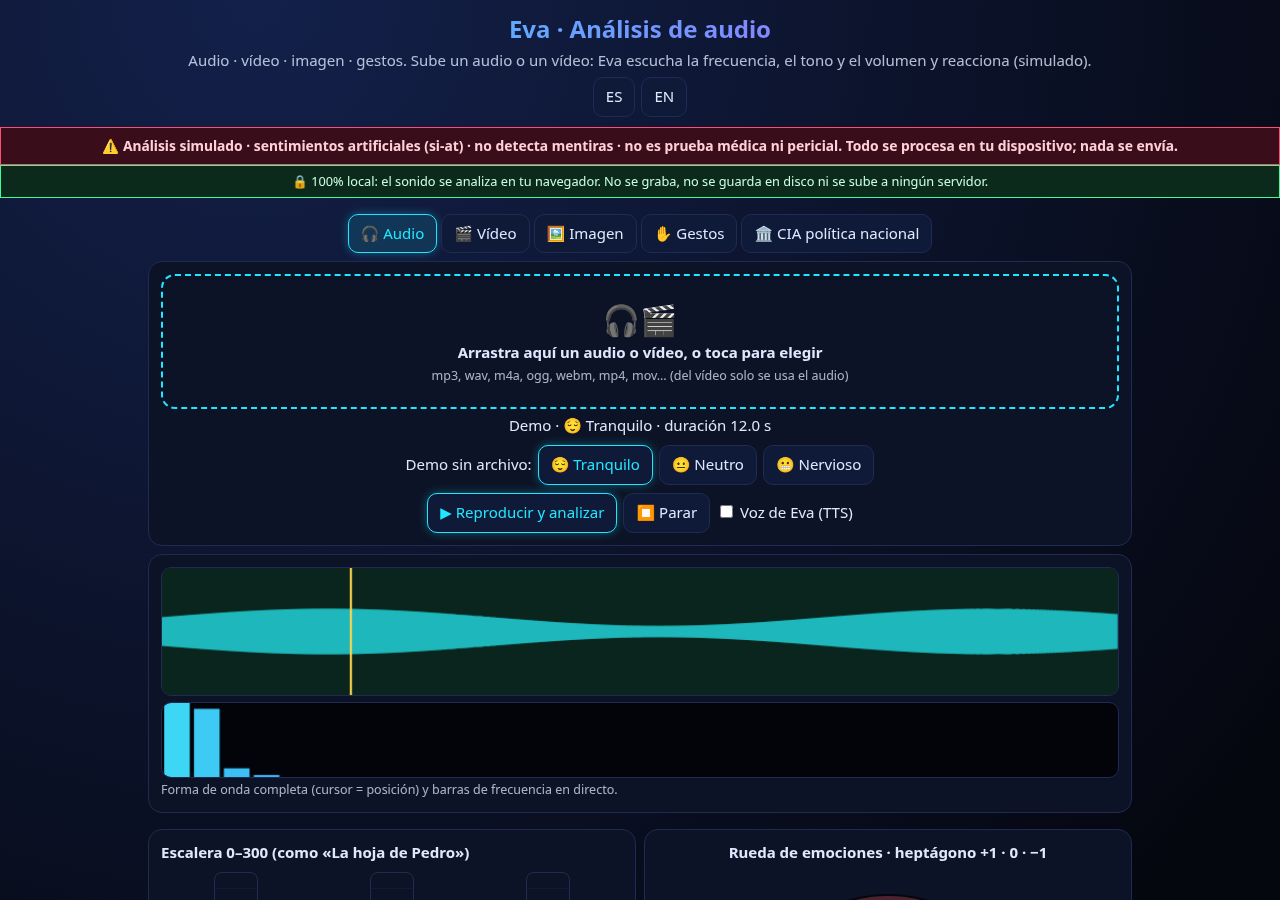
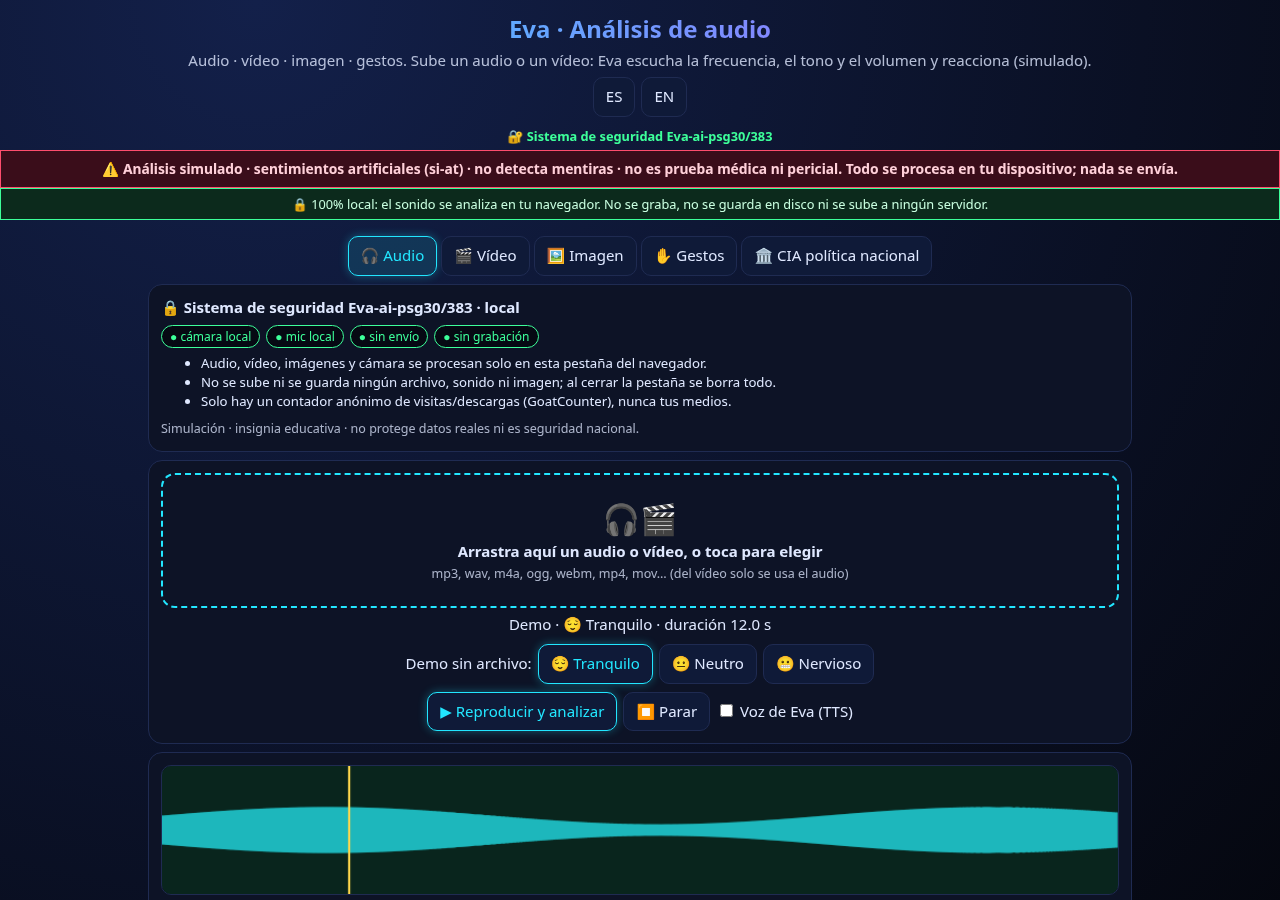
Eva: sistema de seguridad Eva-ai-psg30/383 (panel local, código demo para CIA política nacional, simulación)

diff --git a/eva/index.html b/eva/index.html
@@ -33,17 +33,20 @@ footer{text-align:center;padding:16px;opacity:.85;font-size:.85em}a{color:var(--
 .aud{} .ges{display:none}
 </style></head><body>
 <header><h1 data-i="title"></h1><div data-i="sub" style="opacity:.8"></div><div class="row" style="margin-top:6px"><a class="btn" href="?lang=es">ES</a><a class="btn" href="?lang=en">EN</a></div></header>
-<div class="banner" data-i="disc"></div>
+<div style="text-align:center;font-size:.85em;color:#3dff9a;margin-bottom:4px">🔐 <b data-i="secId"></b></div><div class="banner" data-i="disc"></div>
 <div class="priv" data-i="priv"></div>
 <main>
 <div class="tabs"><button class="btn tab on" data-m="audio" data-i="tA"></button><button class="btn tab" data-m="video" data-i="tV"></button><button class="btn tab" data-m="imagen" data-i="tI"></button><button class="btn tab" data-m="gestos" data-i="tG"></button><button class="btn tab" data-m="cia" data-i="tC"></button></div>
 <div class="card cia" id="cCard" style="display:none"><div class="banner" style="background:#3a2400;border-color:#ffb020;color:#ffe2a8;border-radius:10px;font-size:1em" data-i="cban"></div>
-<p data-i="cTxt" style="text-align:center"></p><div class="row"><button class="btn on" id="cStart" data-i="cStart"></button><button class="btn" id="cStop" data-i="cStop" disabled></button></div><div id="cSt" style="text-align:center;margin-top:6px"></div></div>
+<p data-i="cTxt" style="text-align:center"></p><div id="gate" class="row" style="margin-bottom:8px"><label>🔐 <span data-i="gateL"></span> <input id="pin" placeholder="Eva-ai-psg30/383" style="background:#05070f;color:#dfe8ff;border:1px solid #ffb020;border-radius:8px;padding:6px"></label><button class="btn" id="unl" data-i="unl"></button><small data-i="gateN" style="width:100%;text-align:center"></small></div><div class="row"><button class="btn on" id="cStart" data-i="cStart" disabled></button><button class="btn" id="cStop" data-i="cStop" disabled></button></div><div id="cSt" style="text-align:center;margin-top:6px"></div></div>
 <div class="card ges" id="gCard"><div class="banner" data-i="gban" style="border-radius:10px;margin-bottom:8px"></div>
 <div class="row" style="margin-bottom:8px"><button class="btn on" id="gOpen" data-i="gOpen"></button><button class="btn" id="gStop" data-i="stop" disabled></button><button class="btn" id="gPick" data-i="gPick"></button><input type="file" id="gFile" accept="image/*" hidden><label><input type="checkbox" id="gHands" checked> <span data-i="gHandsL"></span></label></div>
 <div id="gv"><video id="gvid" class="mir" playsinline muted></video><img id="gimg" alt="" hidden><canvas id="gov" style="border:0;background:transparent"></canvas><div id="gtags"></div><div id="gph" data-i="gph"></div></div>
 <div id="gst" style="text-align:center;margin-top:6px"></div>
 <div class="row" style="margin-top:8px"><span data-i="gDemo"></span><span id="gDemoB" class="row"></span></div><small data-i="gNote"></small></div>
+<div class="card" id="sec"><b>🔒 <span data-i="secT"></span></b><div class="row" style="justify-content:flex-start;margin-top:6px">
+<span class="tag" style="border-color:#3dff9a;color:#3dff9a">● <span data-i="s1"></span></span><span class="tag" style="border-color:#3dff9a;color:#3dff9a">● <span data-i="s2"></span></span><span class="tag" style="border-color:#3dff9a;color:#3dff9a">● <span data-i="s3"></span></span><span class="tag" style="border-color:#3dff9a;color:#3dff9a">● <span data-i="s4"></span></span></div>
+<ul style="margin:6px 0;font-size:.88em"><li data-i="c1"></li><li data-i="c2"></li><li data-i="c3"></li></ul><small data-i="secN"></small></div>
 <div class="card aud" id="aCard"><div id="drop" tabindex="0"><div style="font-size:2em">🎧🎬</div><b data-i="drop"></b><br><small data-i="fmt"></small><input type="file" id="file" accept="audio/*,video/*,.mp3,.wav,.m4a,.ogg,.webm,.mp4,.mov,.aac,.flac" hidden></div>
 <div id="info" style="text-align:center;margin-top:6px"></div><div id="err" style="text-align:center"></div>
 <div class="row" style="margin-top:8px"><span data-i="demo"></span><button class="btn demo" data-k="calm" data-i="dCalm"></button><button class="btn demo" data-k="neu" data-i="dNeu"></button><button class="btn demo" data-k="nerv" data-i="dNerv"></button></div>
@@ -63,7 +66,7 @@ footer{text-align:center;padding:16px;opacity:.85;font-size:.85em}a{color:var(--
 <div class="card" style="text-align:center"><a class="btn on" id="dl" href="index.html" download="eva-analisis-audio.html" data-i="dlB"></a></div>
 <div class="card"><b data-i="more"></b> <a href="../may-gestos/">MAY · Lenguaje gestual</a> · <a href="../may-produccion/">MAY Producción</a> · <a href="../binary-money/">Binary Money</a> · <a href="../">OSNews</a></div>
 </main>
-<footer data-i="foot"></footer>
+<footer><div data-i="foot"></div><div style="color:#3dff9a;margin-top:4px">🔐 <span data-i="secId"></span></div></footer>
 <script>
 const L=new URLSearchParams(location.search).get('lang')=='en'?'en':'es';document.documentElement.lang=L;
 var T={es:{title:'Eva · Análisis de audio',sub:'Audio · vídeo · imagen · gestos. Sube un audio o un vídeo: Eva escucha la frecuencia, el tono y el volumen y reacciona (simulado).',
@@ -192,7 +195,7 @@ Object.assign(T,L=='en'?{tC:'🏛 CIA política nacional',cban:'⚠ Educat
 :{tC:'🏛 CIA política nacional',cban:'⚠ Simulación educativa · no es una agencia real · no vigila a nadie · no graba ni envía · sentimientos artificiales (si-at)',cTxt:'Juego «mesa de análisis político»: reproduce un discurso público cerca del micrófono y Eva comenta el TONO de la señal de entrada en tiempo real (simulado). Ficción para alfabetización mediática.',cStart:'🎙 Iniciar señal',cStop:'⏹ Parar señal',cOn:'Señal en directo activa (solo en tu dispositivo). No se graba nada.',cDen:'No se pudo abrir el micrófono.',cPer:'Eva percibe en la señal'});
 ['tC','cban','cTxt','cStart','cStop'].forEach(k=>document.querySelectorAll(`[data-i="${k}"]`).forEach(e=>e.textContent=T[k]));
 let cS=null,cA=null,cR=0,cHist=[];
-function cStop(){cancelAnimationFrame(cR);cS&&cS.getTracks().forEach(t=>t.stop());cS=null;$('cStop').disabled=true;$('cStart').disabled=false}
+function cStop(){cancelAnimationFrame(cR);cS&&cS.getTracks().forEach(t=>t.stop());cS=null;$('cStop').disabled=true;$('cStart').disabled=$('gate').style.display!='none'}
 async function cStartFn(stream){try{cS=stream||await navigator.mediaDevices.getUserMedia({audio:{echoCancellation:false,noiseSuppression:false},video:false})}catch(e){$('cSt').textContent=T.cDen;return}
 ac=ac||new (window.AudioContext||window.webkitAudioContext)();await ac.resume();const sn=ac.createMediaStreamSource(cS);cA=ac.createAnalyser();cA.fftSize=2048;sn.connect(cA);
 $('cStart').disabled=true;$('cStop').disabled=false;$('cSt').textContent=T.cOn;const td=new Float32Array(2048),fd=new Float32Array(1024),sr=ac.sampleRate;cHist=[];let n=0;
@@ -205,6 +208,11 @@ const c=$('wave'),x=c.getContext('2d'),w=c.width,h=c.height;x.clearRect(0,0,w,h)
 const bb=[];for(let i=0;i<32;i++)bb.push(Math.max(0,fd[i*4]+110));drawBars(bb)};tick();window.__eva={ok:true,live:true}}
 $('cStart').onclick=()=>cStartFn();$('cStop').onclick=cStop;window.__cStartFn=cStartFn;
 document.querySelectorAll('.tab').forEach(b=>b.addEventListener('click',()=>{const c=b.dataset.m=='cia';$('cCard').style.display=c?'block':'none';if(c){document.querySelectorAll('.aud').forEach(e=>e.style.display='');$('aCard').style.display='none';$('segC').style.display='none';$('gCard').style.display='block';$('gOpen').style.display='';$('gStop').style.display='';$('gPick').style.display='none'}else{cStop();$('aCard').style.display=(b.dataset.m=='imagen'||b.dataset.m=='gestos')?'none':''}}));
+
+Object.assign(T,L=='en'?{secId:'Security system Eva-ai-psg30/383',secT:'Security system Eva-ai-psg30/383 · local',s1:'local camera',s2:'local mic',s3:'no sending',s4:'no recording',c1:'Audio, video, images and camera are processed in this browser tab only.',c2:'No file, sound or image is uploaded or saved; closing the tab erases everything.',c3:'Only an anonymous visit/download counter (GoatCounter) is used, never your media.',secN:'Simulation · educational badge · it does not protect real data and is not national security.',gateL:'Code',unl:'🔓 Unlock',gateN:'Demo code: Eva-ai-psg30/383 · simulation · does not protect real data',bad:'Wrong code (demo: Eva-ai-psg30/383)',ok:'🔓 Unlocked (simulation)'}
+:{secId:'Sistema de seguridad Eva-ai-psg30/383',secT:'Sistema de seguridad Eva-ai-psg30/383 · local',s1:'cámara local',s2:'mic local',s3:'sin envío',s4:'sin grabación',c1:'Audio, vídeo, imágenes y cámara se procesan solo en esta pestaña del navegador.',c2:'No se sube ni se guarda ningún archivo, sonido ni imagen; al cerrar la pestaña se borra todo.',c3:'Solo hay un contador anónimo de visitas/descargas (GoatCounter), nunca tus medios.',secN:'Simulación · insignia educativa · no protege datos reales ni es seguridad nacional.',gateL:'Código',unl:'🔓 Desbloquear',gateN:'Código demo: Eva-ai-psg30/383 · simulación · no protege datos reales',bad:'Código incorrecto (demo: Eva-ai-psg30/383)',ok:'🔓 Desbloqueado (simulación)'});
+['secId','secT','s1','s2','s3','s4','c1','c2','c3','secN','gateL','unl','gateN'].forEach(k=>document.querySelectorAll(`[data-i="${k}"]`).forEach(e=>e.textContent=T[k]));
+$('unl').onclick=()=>{if($('pin').value.trim()=='Eva-ai-psg30/383'){$('cStart').disabled=false;$('cSt').textContent=T.ok;$('gate').style.display='none'}else $('cSt').textContent=T.bad};
 const m0=new URLSearchParams(location.search).get('modo');if(m0){const b=document.querySelector(`.tab[data-m="${m0}"]`);b&&b.click()}
 </script>
 <script type="module">
